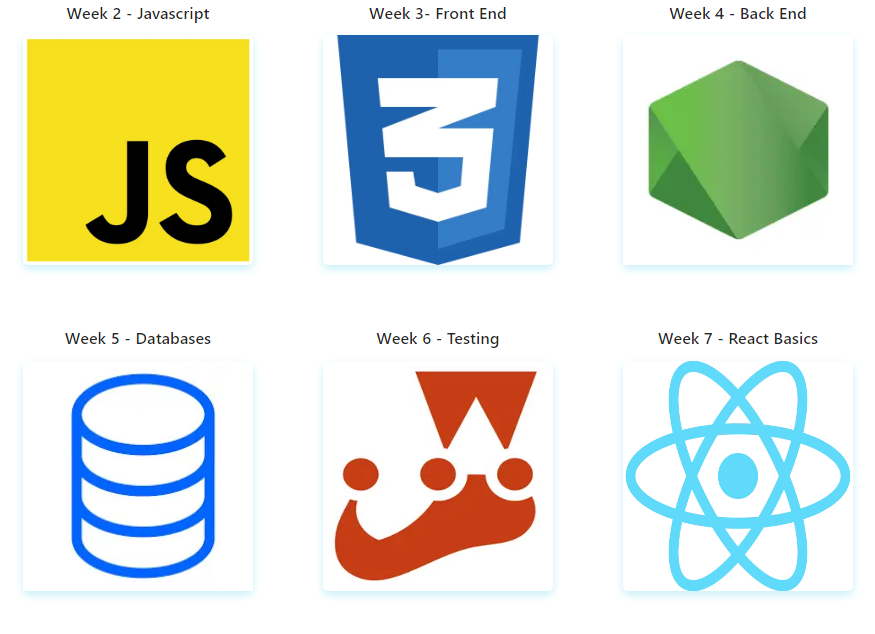
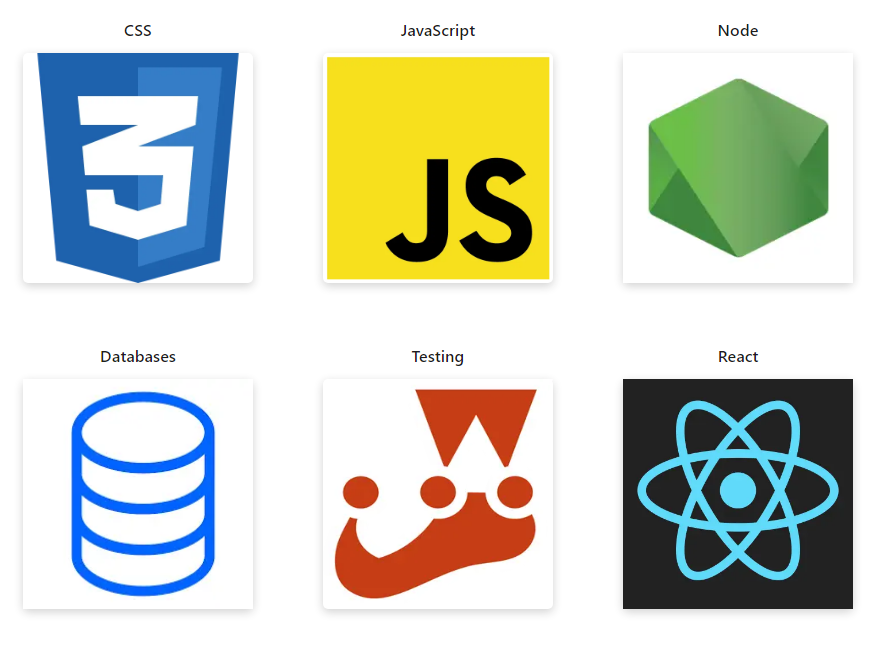
dynamic graph complete! Date display tbc

diff --git a/components/topicpage.js b/components/topicpage.js
@@ -6,53 +6,53 @@ export default function TopicPage() {
     <div>
       <div className="topic-section">
         <Topic
-          title=" Week 2 - Javascript"
-          query="javascript"
-          imgPath="https://www.freepnglogos.com/uploads/javascript-png/javascript-vector-logo-yellow-png-transparent-javascript-vector-12.png"
-        ></Topic>
-        <Topic
-          query="frontend"
-          title="Week 3- Front End"
+          title="CSS"
+          query="CSS"
           imgPath="https://www.logolynx.com/images/logolynx/0d/0d35ef6c8d4fdaf0590228404dc6448b.png"
         ></Topic>
         <Topic
-          query="backend"
-          title="Week 4 - Back End"
+          query="Javascript"
+          title="JavaScript"
+          imgPath="https://www.freepnglogos.com/uploads/javascript-png/javascript-vector-logo-yellow-png-transparent-javascript-vector-12.png"
+        ></Topic>
+        <Topic
+          query="Node"
+          title="Node"
           imgPath="https://nodejs.org/static/images/logo-hexagon-card.png"
         ></Topic>
         <Topic
-          query="database"
-          title="Week 5 - Databases"
+          query="Databases"
+          title="Databases"
           imgPath="https://encrypted-tbn0.gstatic.com/images?q=tbn:ANd9GcTER_wnWHgS2z0Kra1UyKRv-ez3DGqTOP4nzSDq-sYmEkF2m5-Gayi8NNFdATDeVLYYEQI&usqp=CAU"
         ></Topic>
         <Topic
-          query="testing"
-          title="Week 6 - Testing"
+          query="Testing"
+          title="Testing"
           imgPath="https://seeklogo.com/images/J/jest-logo-F9901EBBF7-seeklogo.com.png"
         ></Topic>
         <Topic
-          query="react_basics"
-          title="Week 7 - React Basics"
+          query="React"
+          title="React"
           imgPath="https://pbs.twimg.com/profile_images/446356636710363136/OYIaJ1KK_400x400.png"
         ></Topic>
         <Topic
-          query="react_advanced"
-          title="Week 8 - React Advanced"
-          imgPath="https://pluginicons.craft-cdn.com/react.svg?1527521614"
-        ></Topic>
-        <Topic
-          query="agile"
-          title="Week 9 - Agile"
+          query="Agile"
+          title="Agile"
           imgPath="https://www.smartsheet.com/sites/default/files/agile-lifecycle.png"
         ></Topic>
         <Topic
-          query="computer_science"
-          title="Week 10 - Computer Science"
-          imgPath="https://www.kindpng.com/picc/m/78-786173_computer-science-logo-png-transparent-png.png"
+          query="TypeScript"
+          title="TypeScript"
+          imgPath="https://iconape.com/wp-content/png_logo_vector/typescript.png"
         ></Topic>
         <Topic
-          query="architecture"
-          title="Week 11 - Architecture"
+          query="Security"
+          title="Security"
[1 lines of base64/hex data omitted]
+        ></Topic>
+        <Topic
+          query="Architecture"
+          title="Architecture"
           imgPath="https://images.ukdissertations.com/119/0520653188015.001.png"
         ></Topic>
       </div>

diff --git a/pages/progress/index.js b/pages/progress/index.js
@@ -1,8 +1,8 @@
 import { Statistic, Row, Col, Progress, Card } from "antd";
-import Graph from "../../components/graph.js";
+import GraphOverview from "../../components/graphOverview.js";
 import TopicData from "../../components/graphtopics.js";
 import { API_URL } from "../../config/index.js";
-import { useState } from "react";
+import { useState, useMemo } from "react";
 import {
   getSession,
   userProfile,
@@ -47,22 +47,35 @@ function collateTopicScores(payload) {
 }
 
 export default function Stats({ data }) {
+  const [Total, setTotal] = useState(0);
+  const [Average, setAverage] = useState(0);
   const [graphData, setGraphData] = useState([]);
   const [topic, setTopic] = useState("");
+  const [overviewData, setOverviewData] = useState({});
+
   let total = 0;
   let average = 0;
-  if (data.payload) {
-    const { payload } = data;
-    total = calculateTotal(payload);
-    average = calculateAverage(payload, total);
-    collateTopicScores(payload);
-  }
 
-  // wrap in a callback to ensure function does not rerender
-  function getTopicForGraph(topic) {
-    setTopic(topic);
+  // this should be wrapped in a usememo
+  const calculation = useMemo(() => {
     if (data.payload) {
       const { payload } = data;
+      total = calculateTotal(payload);
+      setTotal(total);
+      average = calculateAverage(payload, total);
+      setAverage(average);
+      const overviewdata = collateTopicScores(payload);
+      setOverviewData(overviewdata);
+    }
+  }, [data]);
+
+  function getTopicForGraph(topic) {
+    const { payload } = data;
+    if (topic === "overview") {
+      setGraphData(overviewData);
+    }
+    setTopic(topic);
+    if (data.payload && topic !== "overview") {
       const topicData = payload.filter((item) => {
         return item.topic.toLowerCase() === topic.toLowerCase();
       });
@@ -81,17 +94,17 @@ export default function Stats({ data }) {
 
   return (
     <>
-      {data && total && average ? (
+      {data ? (
         <>
           <div className="stats">
             <Row type="flex" align="middle" justify="end">
               <Col span={8} align="middle">
-                <Statistic title="Quizzes attempted" value={total} />
+                <Statistic title="Quizzes attempted" value={Total} />
               </Col>
               <Col span={8} align="middle">
                 <Statistic
                   title="Average score"
-                  value={average}
+                  value={Average}
                   precision={1}
                   suffix="/ 6"
                 />
@@ -103,7 +116,7 @@ export default function Stats({ data }) {
                   prefix={
                     <Progress
                       type="circle"
-                      percent={Math.round((average / 6) * 100)}
+                      percent={Math.round((Average / 6) * 100)}
                       width={60}
                     />
                   }
@@ -134,6 +147,12 @@ export default function Stats({ data }) {
           max-width: 70%;
           margin: auto;
           padding-top: 50px;
+        }
+
+        @media only screen and (max-width: 700px) {
+          .topicgraph {
+            max-width: 90%;
+          }
         }
       `}</style>
     </>

diff --git a/components/graphtopics.js b/components/graphtopics.js
@@ -1,24 +1,23 @@
 import { Layout, Menu, Breadcrumb } from "antd";
-import { MenuUnfoldOutlined, MenuFoldOutlined } from "@ant-design/icons";
 const { Header, Content, Footer, Sider } = Layout;
 import { images } from "./images";
 import Graph from "./graph";
 import React, { useState } from "react";
 export default function TopicData({ graphData, getTopicForGraph, topic }) {
-  const [collapsed, setCollapsed] = useState(false);
-
-  function onCollapse() {
-    setCollapsed(!collapsed);
-  }
   return (
     <Layout
       style={{
         minHeight: "400px",
       }}
     >
-      <Sider width={200} collapsible collapsed={collapsed} trigger={null}>
+      <Sider width={200} breakpoint="lg" collapsedWidth="50">
         <Menu defaultSelectedKeys={["overview"]} mode="inline">
-          <Menu.Item key="overview">Overview</Menu.Item>
+          <Menu.Item
+            key="overview"
+            onClick={() => getTopicForGraph("overview")}
+          >
+            Overview
+          </Menu.Item>
           {Object.keys(images).map((key) => (
             <Menu.Item
               icon={
@@ -37,37 +36,22 @@ export default function TopicData({ graphData, getTopicForGraph, topic }) {
       </Sider>
       <Layout id="site-layout">
         <Header
-          className="site-layout-background"
-          style={{
-            padding: 0,
-            background: "#fff",
-          }}
-        >
-          {React.createElement(
-            collapsed ? MenuUnfoldOutlined : MenuFoldOutlined,
-            {
-              onClick: onCollapse,
-              className: "trigger",
-              style: {
-                padding: "0 24px",
-                fontSize: "24px",
-                lineHeight: "64px",
-                cursor: "pointer",
-                transition: "color 0.3s",
-              },
-              hover: { color: "red" },
-            }
-          )}
-        </Header>
+          className="site-layout-sub-header-background"
+          style={{ padding: 0, background: "#fff" }}
+        />
         <Content
           style={{
             background: "#fff",
-            margin: "24px 16px",
-            padding: "0 24px",
             minHeight: 280,
           }}
         >
-          <Graph graphData={graphData} topic={topic} />
+          {!Array.isArray(graphData) || !graphData.length ? (
+            <h3 style={{ textAlign: "center" }}>
+              No results found, please attempt quizzes for this topic
+            </h3>
+          ) : (
+            <Graph graphData={graphData} topic={topic} />
+          )}
         </Content>
       </Layout>
     </Layout>

diff --git a/components/images.js b/components/images.js
@@ -1,20 +1,19 @@
 const images = {
   Javascript:
     "https://www.freepnglogos.com/uploads/javascript-png/javascript-vector-logo-yellow-png-transparent-javascript-vector-12.png",
-  Frontend:
-    "https://www.logolynx.com/images/logolynx/0d/0d35ef6c8d4fdaf0590228404dc6448b.png",
-  Backend: "https://nodejs.org/static/images/logo-hexagon-card.png",
-  Database:
+  CSS: "https://www.logolynx.com/images/logolynx/0d/0d35ef6c8d4fdaf0590228404dc6448b.png",
+  Node: "https://nodejs.org/static/images/logo-hexagon-card.png",
+  Databases:
     "https://encrypted-tbn0.gstatic.com/images?q=tbn:ANd9GcTER_wnWHgS2z0Kra1UyKRv-ez3DGqTOP4nzSDq-sYmEkF2m5-Gayi8NNFdATDeVLYYEQI&usqp=CAU",
   Testing:
     "https://seeklogo.com/images/J/jest-logo-F9901EBBF7-seeklogo.com.png",
-  React_basics:
+  React:
     "https://pbs.twimg.com/profile_images/446356636710363136/OYIaJ1KK_400x400.png",
-  React_advanced: "https://pluginicons.craft-cdn.com/react.svg?1527521614",
   Agile: "https://www.smartsheet.com/sites/default/files/agile-lifecycle.png",
   Computer_science:
     "https://www.kindpng.com/picc/m/78-786173_computer-science-logo-png-transparent-png.png",
   Architecture: "https://images.ukdissertations.com/119/0520653188015.001.png",
+  TypeScript: "https://iconape.com/wp-content/png_logo_vector/typescript.png",
 };
 
 export { images };

diff --git a/components/info.js b/components/info.js
@@ -15,12 +15,12 @@ function Info() {
       <Infobox
         title="Overcome the forgetting curve"
         description="Spaced repitition forces learning to be effortful, thus strengthening the connection between nerve cells in the brain. This helps you to retain information for longer and reduces cognitive overload"
-        link="/curve.png"
+        link="/curve2.png"
         direct="https://www.studentdoctor.net/2018/07/31/spaced-repetition/"
       />
       <Infobox
         title="Explore our Topics"
-        description="Quizzes are released weekly to mimic your bootcamp journey"
+        description="Question sets are randomised and based on a topic of your choice"
         link="/topics.png"
         direct="./topics"
       />
@@ -28,7 +28,7 @@ function Info() {
         title="Track your progress"
         description="Monitor your results using the individualised progress tracker"
         link="/topics.png"
-        direct="./topics"
+        direct="./progress"
       />
 
       <style jsx>{`

diff --git a/components/graph.js b/components/graph.js
@@ -1,17 +1,17 @@
 import React, { useRef } from "react";
 import { ColumnChart } from "@opd/g2plot-react";
 
-export default function Graph({ graphData, yAxis, xAxis }) {
+export default function Graph({ graphData, topic }) {
   console.log(graphData);
   const chartRef = useRef();
   const config = {
-    xField: "time",
-    yField: "score",
+    xField: topic === "overview" ? "topic" : "time",
+    yField: topic === "overview" ? "average" : "score",
     // seriesField: ["average", "topic"],
     color: "#1E1E1E",
     xAxis: {
       title: {
-        text: "Score",
+        text: topic === "overview" ? "Topic" : "Date",
         style: {
           fill: "black",
           fontSize: 20,
@@ -34,7 +34,7 @@ export default function Graph({ graphData, yAxis, xAxis }) {
     },
     yAxis: {
       title: {
-        text: "Date",
+        text: "Score",
         style: {
           fontSize: 20,
           fill: "black",

diff --git a/components/infobox.js b/components/infobox.js
@@ -16,7 +16,7 @@ export default function InfoBox({ direct, title, description, link }) {
         cover={<img src={link} alt={title} />}
         style={{ padding: "30px" }}
       >
-        <p style={{ color: "#1E1E1E", fontSize: "0.9rem" }}>{description}</p>
+        <p style={{ color: "#1E1E1E", fontSize: "1rem" }}>{description}</p>
       </Card>
     </Link>
   );

diff --git a/pages/topics/[topic].js b/pages/topics/[topic].js
@@ -160,6 +160,7 @@ function QuestionPage({ data, topic }) {
 
 export async function getServerSideProps(context) {
   const { topic } = context.query;
+  console.log(topic);
   const res = await fetch(`${API_URL}/questions?topic=${topic}`);
   let data = await res.json();
   data = data.payload;

diff --git a/config/index.js b/config/index.js
@@ -1,5 +1,3 @@
 // export const API_URL = process.env.NEXT_PUBLIC_API_URL;
-const dev = process.env.NODE_ENV !== "production";
-export const API_URL = dev
-  ? "http://localhost:5000"
-  : "https://national-project2.herokuapp.com";
+
+export const API_URL = "http://localhost:5000";

diff --git a/components/topicHeader.js b/components/topicHeader.js
@@ -26,7 +26,7 @@ function TopicHeader({ topic }) {
             style={{ background: "#5400FF", border: "#5400FF" }}
           >
             Shuffle Questions
-          </Button>,
+          </Button>
         ]}
       />
     </>
